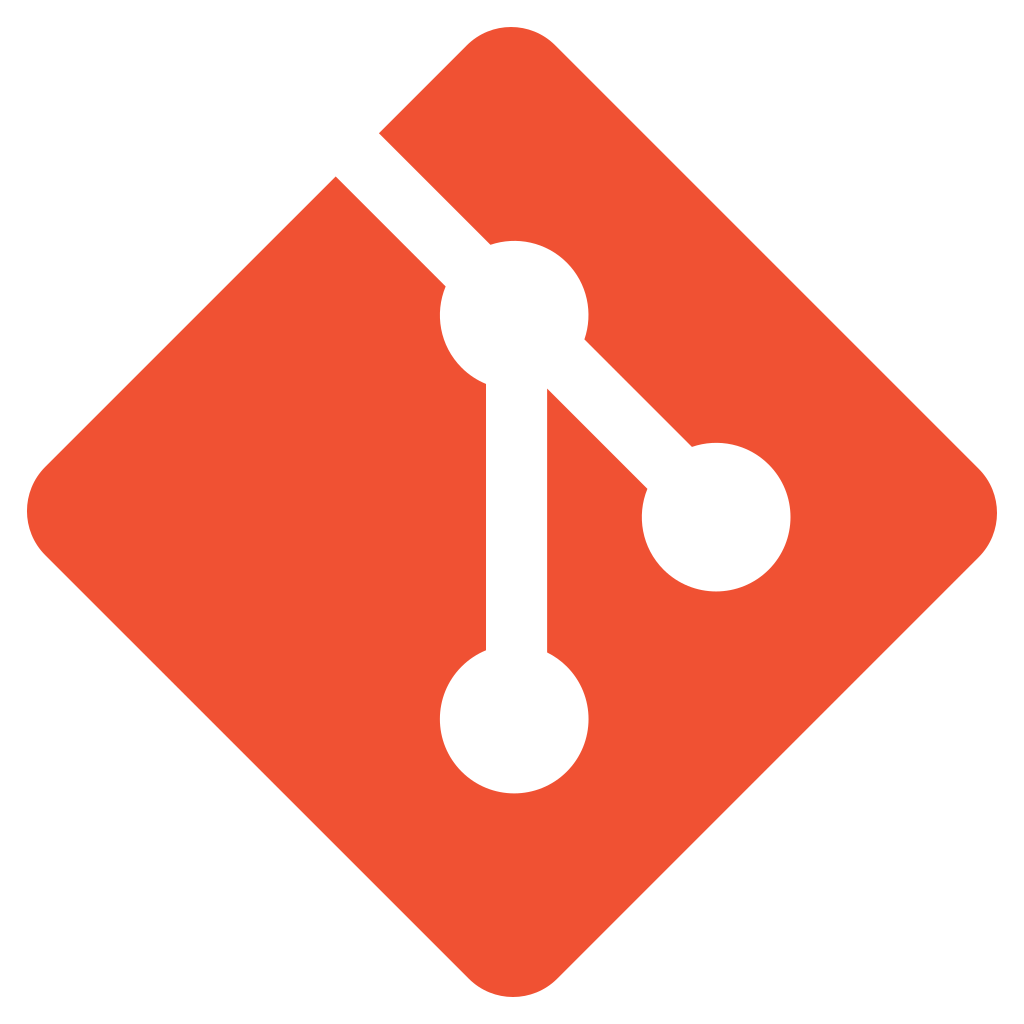
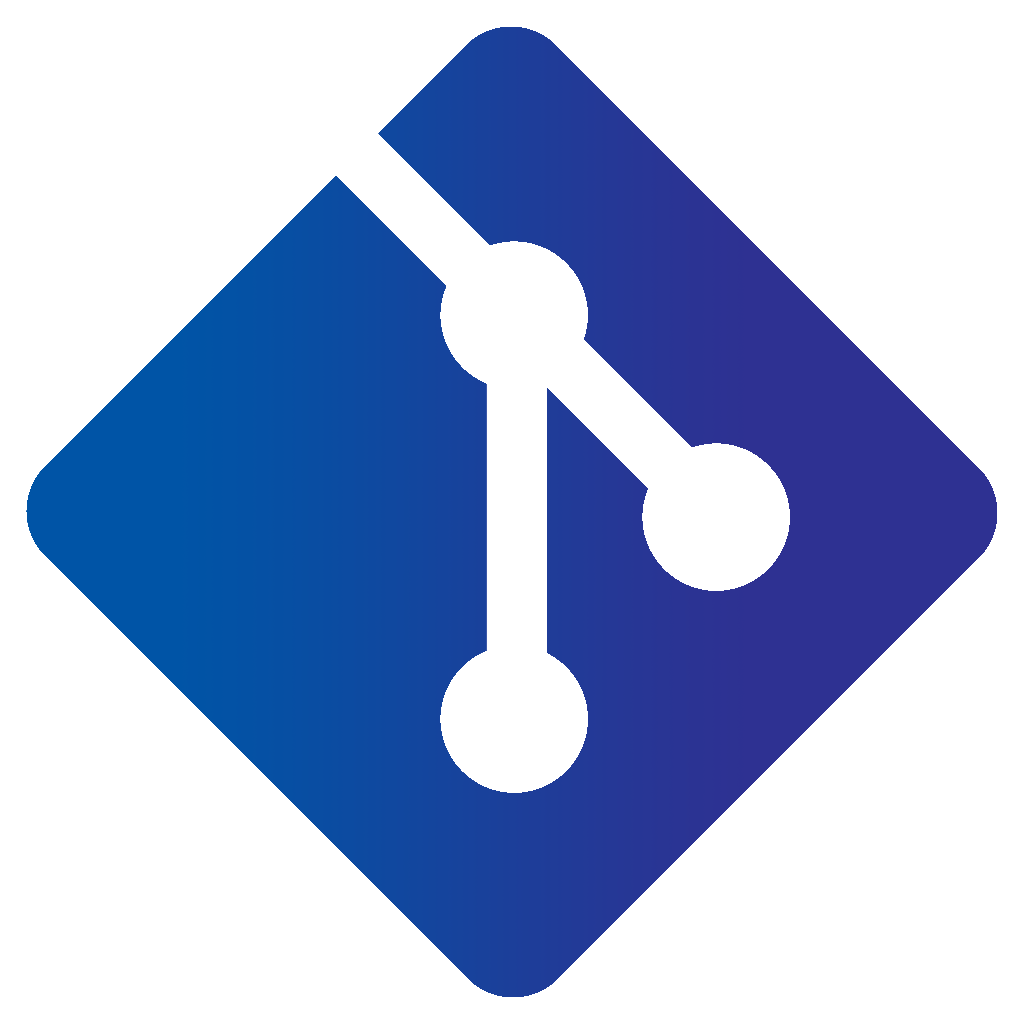
Botão novo, mais conteúdo

diff --git a/index.html b/index.html
@@ -3,7 +3,7 @@
   <head>
     <link rel="preconnect" href="https://fonts.gstatic.com">
     <link href="https://fonts.googleapis.com/css2?family=Lato:wght@400&display=swap" rel="stylesheet">
-    <title>Git Hub Guia Rápido</title>
+    <title>Git e GitHub Guia Rápido</title>
     <link rel="icon" href="images/icon.png">
     <link rel="stylesheet" href="https://stackpath.bootstrapcdn.com/bootstrap/3.4.1/css/bootstrap.min.css" integrity="sha384-HSMxcRTRxnN+Bdg0JdbxYKrThecOKuH5zCYotlSAcp1+c8xmyTe9GYg1l9a69psu" crossorigin="anonymous">
     <link rel="stylesheet" href="estilos.css">
@@ -11,8 +11,11 @@
   <body>
     <div class="banner">
 
-      <h1>GitHub Guia Rápido</h1>
-      <img src="images/ghlogo.png"></img>
+      <h1>Git e GitHub Guia Rápido</h1>
+      <div class="logosc">
+        <img src="images/ghlogo.png">
+        <img src="images/ghlogo2.png">
+      </div>
     </div>
 
     <div class="conteudo">
@@ -20,17 +23,24 @@
       <!-- Área reservada para funcionamento desses botões
         <!--<script src="http://code.jquery.com/jquery-1.11.3.min.js"></script>  preciso para eles funcionarem -->
         <script src="jquery.js"></script>
-        <button class="btn js-dia">Claro</button>
-        <button class="btn js-noite">Escuro</button>
+        <button class="btn js-dia">☀</button>
+        <button class="btn js-noite">☀</button>
 
       <script>
       $(".conteudo").addClass('night');
       $(".conteudo h1").addClass('night h1')
+
+
         $('.js-noite').click(function(){
+          $(".js-noite").css("visibility", "hidden")
+          $(".js-dia").css("visibility", "visible")
           $(".conteudo").addClass('night');
           $(".conteudo h1").addClass('night h1');
+
         });
         $('.js-dia').click(function(){
+          $(".js-noite").css("visibility", "visible")
+          $(".js-dia").css("visibility", "hidden");
           $(".conteudo").removeClass('night');
           $(".conteudo h1").removeClass('night h1');
         });
@@ -177,8 +187,78 @@
       <div class="codigo">
           <p>$ git checkout -b dev2</p>
       </div>
-
-
+      <p></p>
+      <h1>Juntando Branches</h1>
+      <p>Para unir duas "linhas" de desenvolvimento nós usamos o "merge"</p>
+      <div class="codigo">
+          <p>$ git checkout master</p>
+          <p>$ git merge dev2</p>
+      </div>
+      <p>Iremos ter de commitar um comitt de merge. Pra isso abrirá um editor chamado "VIM" no bash. Para sair use :x</p>
+      <p></p>
+      <P>Agora, suponha-mos que a dev2 fez um trabalho tão bom que queremos colocar tudo na master se baseando a partir da Branch dela, existe um comando para:</p>
+      <div class="codigo">
+          <p>$ git checkout main</p>
+          <p>$ git rebase dev2</p>
+      </div>
+      <p>Dessa forma a Branch da dev2 agora é a main!</p>
+      <p></p>
+      <h1>Conflito de merge</h1>
+      <p>Suponha-mos que o dev1 fez a seguinte alteração:</p>
+      <div class="codigo">
+          <p>22 | listaCompras = ["abacate", "banana", "melancia"]</p>
+          <p>23 | print(listaCompras)</p>
+      </div>
+      <p>Porém, a dev2 também mexeu no mesmo trecho:</p>
+      <div class="codigo">
+          <p>22 | listaCompras = ["mamão", "banana", "melancia"]</p>
+          <p>23 | print(listaCompras)</p>
+      </div>
+      <p>Ao tentar realizar o merge, temos um erro</p>
+      <div class="codigo">
+          <p>$git merge dev2</p>
+          <p>Automatic merge failed; fix conflicts and then commit result</p>
+      </div>
+      <p>Alguns editores irão destacar o conflito mostrando ambas as linhas, outros indicarão ambos os conteúdos. Para corrigir o conflito basta escolher qual você quer manter e excluir o outro.</p>
+      <p>Após isso, fazemos o git add e então o git commit para fazer o commit de merge. ":X" para salvar e sair</p>
+      <p>Mas quando a dev2 resolveu esse conflito escolhendo a versão dela, o dev1 trabalhava em outra parte do código, ao tentar enviar ele se depara com o seguinte erro:</p>
+      <div class="codigo">
+          <p>$git merge main</p>
+          <p>Automatic merge failed; fix conflicts and then commit result</p>
+      </div>
+      <p>Então precisamos puxar o código alterado da dev2, para evitar isso acontecer com frequência precisamos sempre fazer o pull antes de começar a trabalhar:</p>
+      <div class="codigo">
+          <p>$git pull main</p>
+          <p>$git push dev main</p>
+      </div>
+      <h1>Defazendo alterações:</h1>
+      <p>Az vezes precisamos "voltar", dar o ctrl+z para conseguir continuar. Como fazer isso no git?</p>
+      <p>Para desfazer um commit enviado primeiro precisamos pegar o hash dele, fazemos isso com:</p>
+      <div class="codigo">
+          <p>$git log</p>
+          <p id="comentario">Onde o comando responderá com varios logs:</p>
+          <p id="primeira">commit n40t3mn4d44scr1t0aqu1okok</p>
+          <p>Author: Álvaro de Campos - alvarocamposdev@poeta.com</p>
+          <p>   Adicionando  o masoquismo através de maquinismos!<p>
+          <p id="primeira">commit a1t3r4c40Bug4d4S0c0rr1nh0</p>
+          <p>Author: Renan Tomazini - temnogit@anarquistadeSistemas.com</p>
+          <p>  Aplicativo feito no flash adicionado a main, confia!<p>
+          <p id="primeira">commit l3v4nt31asS3fuip3g4r4gu4</p>
+          <p>Author: Carolina Maria de Jesus - carolmaria@poeta.com</p>
+          <p>  Adicionada saída de dados e visualizador<p>
+          <p id="primeira">commit pYthOn1c0f4nt4sySaynoMore</p>
+          <p>Author: Marie Curie - mariecurie@radionico.com</p>
+          <p>  Medidor de radiação adicionado.<p>
+          <p id="primeira">commit S3ndC4t5P1ctur3sP134s3ovo</p>
+          <p>Author: Douglas Adams- douglinhadamassa42@mochileiros.com</p>
+          <p>  Criada maquina de improbabilidade infinita<p>
+        </div>
+      <p>Indentificado o commit que queremos reverter, vamos dar o comando para tirar ele do projeto</p>
+      <p>Vamos usar o "git revert" juntamente com o hash do commit bugado:<p>
+      <div class="codigo">
+        <p>$git revert a1t3r4c40Bug4d4S0c0rr1nh0</p>
+      </div>
+      <p>:x para sair do VIM após editar a mensagem</p>
 
     </div>
   </body>

diff --git a/estilos.css b/estilos.css
@@ -13,7 +13,6 @@ body{
 
 
 .banner {
-  align-items: center;
   background-color: rgba(0, 0, 0, 0.4);
   /*background-color: rgba(255,255,255,0.4);*/
   margin-left: 15%;
@@ -32,25 +31,27 @@ body{
   text-align: center;
   color: white;
   font-weight: bold;
+
 }
 
 .banner img{
-  display: block;
-  margin-left: auto;
-  margin-right: auto;
   filter: invert(100%);
   width: 10%;
   height: 10%;
-  margin 250px;
+  margin: auto;
+  display: block;
 }
 
 .js-noite{
-  background-color: #977dc6;
+  visibility: hidden;
+  background-color: #212121;
   color: white;
 }
 .js-dia{
+  position: absolute;
+  visibility: visible;
   background-color: lightblue;
-  color: white;
+  color: #212121;
 }
 
 .conteudo {
